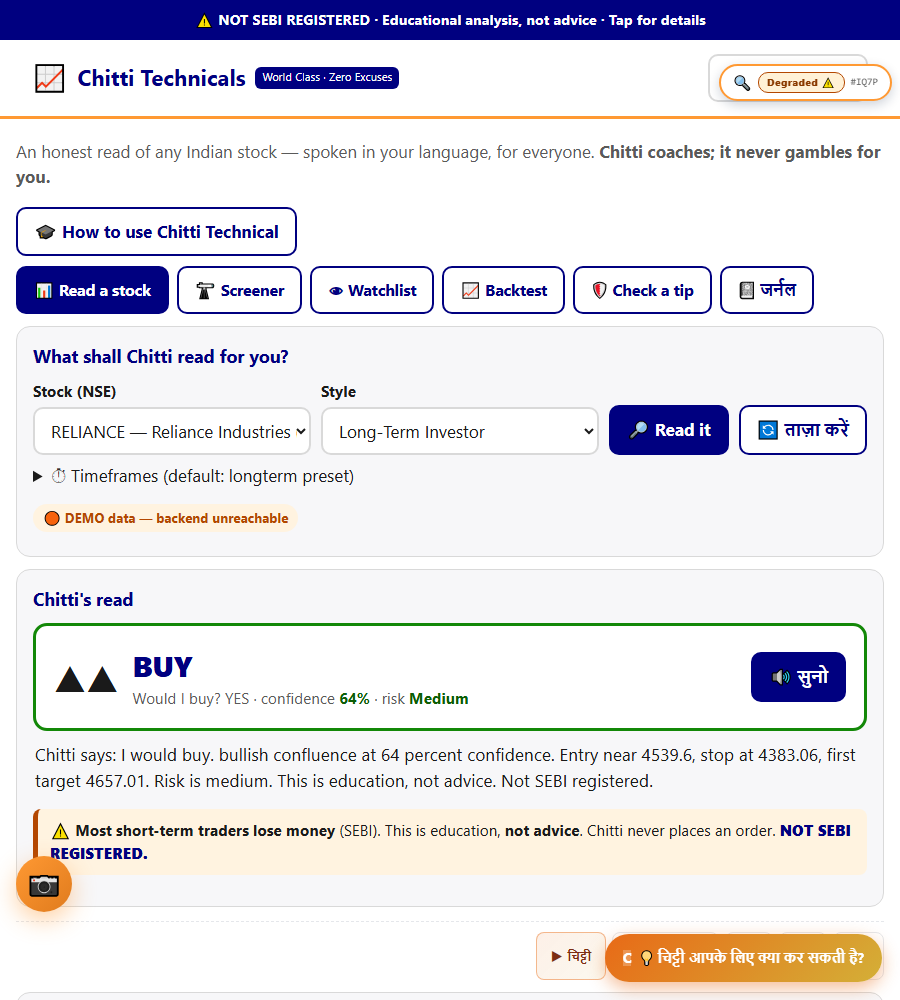
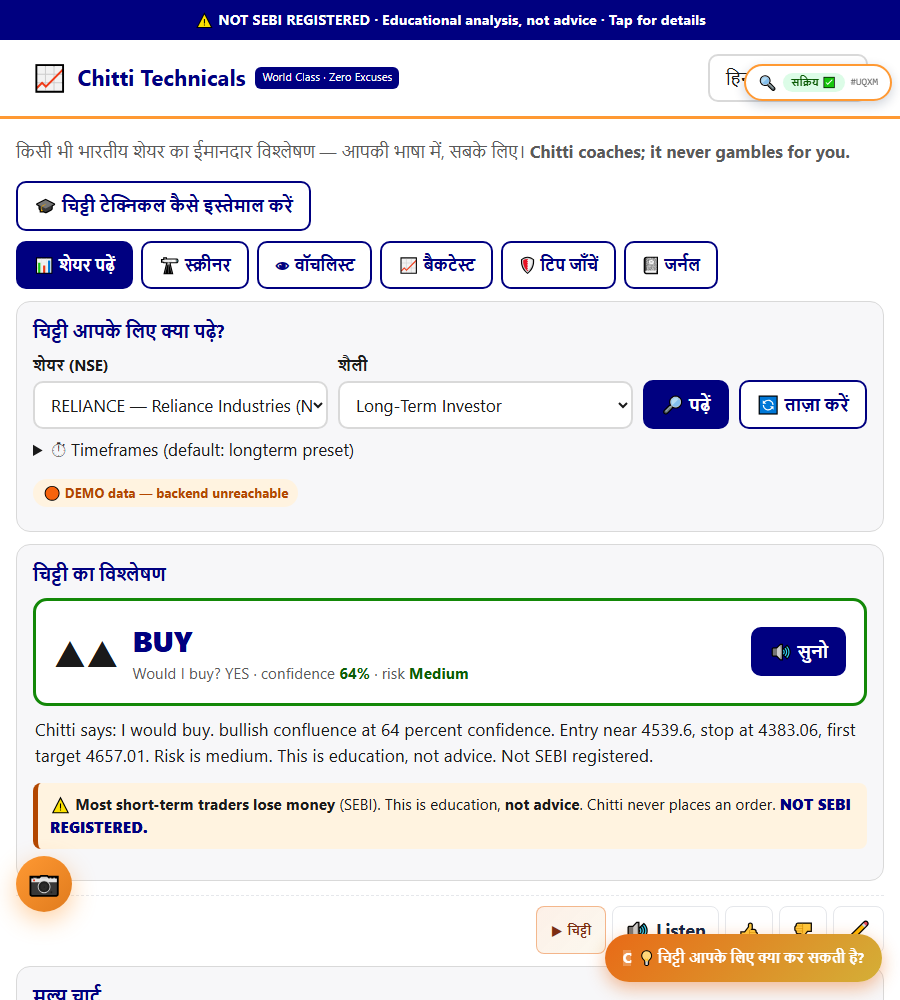
feat(technical): UI translates on language switch (chrome in-language; RSI/MACD stay English)
Per Sire: technical terms (RSI/MACD/Bollinger/NSE) stay English; the REST of the UI must change.
- chitti_technical_ai_i18n.js: translation layer for tabs, headings, buttons, labels, Style dropdown
  across 12 primary Indian langs (hi/bn/te/ta/mr/gu/kn/ml/pa/or/as/ur); honest English fallback for
  unsupported langs. Re-applies on chitti:langchange; skips [translate="no"] (technical hosts).
- HTML: data-i18n on tabs/headings/buttons/labels (emoji + technical terms kept outside the spans).
- Measured (cap_langs.mjs): hi/te/ta/bn/mr → section-labels-English=FALSE, technical-terms-English=true.
  lang_*.png show the translated UI. cert 30/30 (axe 0 serious).
- Honest remainder: the verdict NARRATION sentences (engine explain text) stay English until DeepSeek
  (BO12) — natural-language phrasing is the LLM's job, not a string table.

Changed region(s): [[0.0, 0.062, 0.9644, 0.961], [0.0311, 0.961, 0.9644, 1.0], [0.7467, 0.93, 0.7778, 0.961]]

diff --git a/chitti_technical_ai_i18n.js b/chitti_technical_ai_i18n.js
@@ -1,0 +1,75 @@
+/* chitti_technical_ai_i18n.js
+ * 🎖 World Class Chitti Technicals — Commando Discipline. Zero Excuses.
+ *
+ * Translates the page's bespoke UI chrome (tabs, section headings, buttons, labels) into the
+ * primary Indian languages on language switch. Technical terms (RSI/MACD/Bollinger/NSE) are
+ * left English on purpose (they live in [translate="no"] hosts and are not keyed here).
+ * Elements opt in with data-i18n="key". Re-applies on `chitti:langchange` (from chitti_lang.js)
+ * and on first load. Languages without a translation fall back to English — honestly, not Hinglish.
+ */
+(function (root, doc) {
+  'use strict';
+  // key → { en, hi, bn, te, ta, mr, gu, kn, ml, pa, or, as, ur }
+  var T = {
+    intro: { en: 'An honest read of any Indian stock — spoken in your language, for everyone.', hi: 'किसी भी भारतीय शेयर का ईमानदार विश्लेषण — आपकी भाषा में, सबके लिए।', bn: 'যেকোনো ভারতীয় শেয়ারের সৎ বিশ্লেষণ — আপনার ভাষায়, সবার জন্য।', te: 'ఏ భారతీయ స్టాక్నైనా నిజాయితీగా చదవడం — మీ భాషలో, అందరికీ.', ta: 'எந்த இந்தியப் பங்கையும் நேர்மையாகப் படிப்பது — உங்கள் மொழியில், அனைவருக்கும்.', mr: 'कोणत्याही भारतीय शेअरचे प्रामाणिक विश्लेषण — तुमच्या भाषेत, सर्वांसाठी.', gu: 'કોઈપણ ભારતીય શેરનું પ્રામાણિક વિશ્લેષણ — તમારી ભાષામાં, બધા માટે.', kn: 'ಯಾವುದೇ ಭಾರತೀಯ ಷೇರಿನ ಪ್ರಾಮಾಣಿಕ ವಿಶ್ಲೇಷಣೆ — ನಿಮ್ಮ ಭಾಷೆಯಲ್ಲಿ, ಎಲ್ಲರಿಗೂ.', ml: 'ഏതൊരു ഇന്ത്യൻ ഓഹരിയുടെയും സത്യസന്ധമായ വായന — നിങ്ങളുടെ ഭാഷയിൽ, എല്ലാവർക്കും.', pa: 'ਕਿਸੇ ਵੀ ਭਾਰਤੀ ਸ਼ੇਅਰ ਦਾ ਇਮਾਨਦਾਰ ਵਿਸ਼ਲੇਸ਼ਣ — ਤੁਹਾਡੀ ਭਾਸ਼ਾ ਵਿੱਚ, ਸਭ ਲਈ।', or: 'ଯେକୌଣସି ଭାରତୀୟ ସେୟାରର ସଚ୍ଚୋଟ ବିଶ୍ଳେଷଣ — ଆପଣଙ୍କ ଭାଷାରେ, ସମସ୍ତଙ୍କ ପାଇଁ।', as: 'যিকোনো ভাৰতীয় শ্বেয়াৰৰ সৎ বিশ্লেষণ — আপোনাৰ ভাষাত, সকলোৰে বাবে।', ur: 'کسی بھی بھارتی اسٹاک کا ایماندار تجزیہ — آپ کی زبان میں، سب کے لیے۔' },
+    tab_read: { en: 'Read a stock', hi: 'शेयर पढ़ें', bn: 'শেয়ার পড়ুন', te: 'స్టాక్ చదవండి', ta: 'பங்கைப் படி', mr: 'शेअर वाचा', gu: 'શેર વાંચો', kn: 'ಷೇರು ಓದಿ', ml: 'ഓഹരി വായിക്കുക', pa: 'ਸ਼ੇਅਰ ਪੜ੍ਹੋ', or: 'ସେୟାର ପଢ଼ନ୍ତୁ', as: 'শ্বেয়াৰ পঢ়ক', ur: 'اسٹاک پڑھیں' },
+    tab_screener: { en: 'Screener', hi: 'स्क्रीनर', bn: 'স্ক্রিনার', te: 'స్క్రీనర్', ta: 'ஸ்கிரீனர்', mr: 'स्क्रीनर', gu: 'સ્ક્રીનર', kn: 'ಸ್ಕ್ರೀನರ್', ml: 'സ്ക്രീനർ', pa: 'ਸਕਰੀਨਰ', or: 'ସ୍କ୍ରିନର', as: 'স্ক্ৰিনাৰ', ur: 'اسکرینر' },
+    tab_watchlist: { en: 'Watchlist', hi: 'वॉचलिस्ट', bn: 'ওয়াচলিস্ট', te: 'వాచ్లిస్ట్', ta: 'கண்காணிப்புப் பட்டியல்', mr: 'वॉचलिस्ट', gu: 'વોચલિસ્ટ', kn: 'ವಾಚ್ಲಿಸ್ಟ್', ml: 'വാച്ച്ലിസ്റ്റ്', pa: 'ਵਾਚਲਿਸਟ', or: 'ୱାଚଲିଷ୍ଟ', as: 'ৱাচলিষ্ট', ur: 'واچ لسٹ' },
+    tab_backtest: { en: 'Backtest', hi: 'बैकटेस्ट', bn: 'ব্যাকটেস্ট', te: 'బ్యాక్టెస్ట్', ta: 'பின்சோதனை', mr: 'बॅकटेस्ट', gu: 'બેકટેસ્ટ', kn: 'ಬ್ಯಾಕ್ಟೆಸ್ಟ್', ml: 'ബാക്ക്ടെസ്റ്റ്', pa: 'ਬੈਕਟੈਸਟ', or: 'ବ୍ୟାକ୍ଟେଷ୍ଟ', as: 'বেকটেষ্ট', ur: 'بیک ٹیسٹ' },
+    tab_tip: { en: 'Check a tip', hi: 'टिप जाँचें', bn: 'টিপ যাচাই করুন', te: 'టిప్ తనిఖీ చేయండి', ta: 'டிப்பைச் சரிபார்', mr: 'टिप तपासा', gu: 'ટિપ તપાસો', kn: 'ಟಿಪ್ ಪರಿಶೀಲಿಸಿ', ml: 'ടിപ്പ് പരിശോധിക്കുക', pa: 'ਟਿੱਪ ਜਾਂਚੋ', or: 'ଟିପ୍ ଯାଞ୍ଚ କରନ୍ତୁ', as: 'টিপ পৰীক্ষা কৰক', ur: 'ٹپ جانچیں' },
+    tab_journal: { en: 'Journal', hi: 'जर्नल', bn: 'জার্নাল', te: 'జర్నల్', ta: 'பதிவேடு', mr: 'जर्नल', gu: 'જર્નલ', kn: 'ಜರ್ನಲ್', ml: 'ജേണൽ', pa: 'ਜਰਨਲ', or: 'ଜର୍ନାଲ', as: 'জাৰ্নেল', ur: 'جرنل' },
+    h_ask: { en: 'What shall Chitti read for you?', hi: 'चिट्टी आपके लिए क्या पढ़े?', bn: 'চিট্টি আপনার জন্য কী পড়বে?', te: 'చిట్టి మీ కోసం ఏమి చదవాలి?', ta: 'சிட்டி உங்களுக்கு எதைப் படிக்கட்டும்?', mr: 'चिट्टीने तुमच्यासाठी काय वाचावे?', gu: 'ચિટ્ટી તમારા માટે શું વાંચે?', kn: 'ಚಿಟ್ಟಿ ನಿಮಗಾಗಿ ಏನು ಓದಬೇಕು?', ml: 'ചിട്ടി നിങ്ങൾക്കായി എന്ത് വായിക്കണം?', pa: 'ਚਿੱਟੀ ਤੁਹਾਡੇ ਲਈ ਕੀ ਪੜ੍ਹੇ?', or: 'ଚିଟ୍ଟି ଆପଣଙ୍କ ପାଇଁ କଣ ପଢ଼ିବ?', as: 'চিট্টিয়ে আপোনাৰ বাবে কি পঢ়িব?', ur: 'چٹی آپ کے لیے کیا پڑھے؟' },
+    lbl_stock: { en: 'Stock (NSE)', hi: 'शेयर (NSE)', bn: 'শেয়ার (NSE)', te: 'స్టాక్ (NSE)', ta: 'பங்கு (NSE)', mr: 'शेअर (NSE)', gu: 'શેર (NSE)', kn: 'ಷೇರು (NSE)', ml: 'ഓഹരി (NSE)', pa: 'ਸ਼ੇਅਰ (NSE)', or: 'ସେୟାର (NSE)', as: 'শ্বেয়াৰ (NSE)', ur: 'اسٹاک (NSE)' },
+    lbl_style: { en: 'Style', hi: 'शैली', bn: 'ধরন', te: 'శైలి', ta: 'பாணி', mr: 'शैली', gu: 'શૈલી', kn: 'ಶೈಲಿ', ml: 'ശൈലി', pa: 'ਸ਼ੈਲੀ', or: 'ଶୈଳୀ', as: 'শৈলী', ur: 'انداز' },
+    btn_readit: { en: 'Read it', hi: 'पढ़ें', bn: 'পড়ুন', te: 'చదవండి', ta: 'படி', mr: 'वाचा', gu: 'વાંચો', kn: 'ಓದಿ', ml: 'വായിക്കുക', pa: 'ਪੜ੍ਹੋ', or: 'ପଢ଼ନ୍ତୁ', as: 'পঢ়ক', ur: 'پڑھیں' },
+    btn_refresh: { en: 'Refresh', hi: 'ताज़ा करें', bn: 'রিফ্রেশ', te: 'రిఫ్రెష్', ta: 'புதுப்பி', mr: 'रिफ्रेश', gu: 'રિફ્રેશ', kn: 'ರಿಫ್ರೆಶ್', ml: 'പുതുക്കുക', pa: 'ਤਾਜ਼ਾ ਕਰੋ', or: 'ରିଫ୍ରେସ୍', as: 'ৰিফ্ৰেছ', ur: 'ریفریش' },
+    lbl_tf: { en: 'Timeframe', hi: 'समय-सीमा', bn: 'সময়সীমা', te: 'కాలవ్యవధి', ta: 'கால அளவு', mr: 'कालावधी', gu: 'સમયમર્યાદા', kn: 'ಕಾಲಾವಧಿ', ml: 'കാലയളവ്', pa: 'ਸਮਾਂ-ਸੀਮਾ', or: 'ସମୟସୀମା', as: 'সময়সীমা', ur: 'مدت' },
+    h_chitti_read: { en: "Chitti's read", hi: 'चिट्टी का विश्लेषण', bn: 'চিট্টির বিশ্লেষণ', te: 'చిట్టి విశ్లేషణ', ta: 'சிட்டியின் வாசிப்பு', mr: 'चिट्टीचे विश्लेषण', gu: 'ચિટ્ટીનું વિશ્લેષણ', kn: 'ಚಿಟ್ಟಿಯ ವಿಶ್ಲೇಷಣೆ', ml: 'ചിട്ടിയുടെ വായന', pa: 'ਚਿੱਟੀ ਦਾ ਵਿਸ਼ਲੇਸ਼ਣ', or: 'ଚିଟ୍ଟିଙ୍କ ବିଶ୍ଳେଷଣ', as: 'চিট্টিৰ বিশ্লেষণ', ur: 'چٹی کا تجزیہ' },
+    h_chart: { en: 'Price chart', hi: 'मूल्य चार्ट', bn: 'মূল্য চার্ট', te: 'ధర చార్ట్', ta: 'விலை விளக்கப்படம்', mr: 'किंमत चार्ट', gu: 'કિંમત ચાર્ટ', kn: 'ಬೆಲೆ ಚಾರ್ಟ್', ml: 'വില ചാർട്ട്', pa: 'ਕੀਮਤ ਚਾਰਟ', or: 'ମୂଲ୍ୟ ଚାର୍ଟ', as: 'মূল্য চাৰ্ট', ur: 'قیمت چارٹ' },
+    h_rating: { en: 'Technical rating', hi: 'तकनीकी रेटिंग', bn: 'টেকনিক্যাল রেটিং', te: 'టెక్నికల్ రేటింగ్', ta: 'தொழில்நுட்ப மதிப்பீடு', mr: 'तांत्रिक रेटिंग', gu: 'ટેકનિકલ રેટિંગ', kn: 'ತಾಂತ್ರಿಕ ರೇಟಿಂಗ್', ml: 'സാങ്കേതിക റേറ്റിംഗ്', pa: 'ਤਕਨੀਕੀ ਰੇਟਿੰਗ', or: 'ଯାନ୍ତ୍ରିକ ରେଟିଂ', as: 'কাৰিকৰী ৰেটিং', ur: 'تکنیکی درجہ بندی' },
+    h_ind_say: { en: 'What the indicators say', hi: 'संकेतक क्या कहते हैं', bn: 'সূচকগুলি কী বলে', te: 'సూచికలు ఏమి చెబుతున్నాయి', ta: 'குறிகாட்டிகள் என்ன சொல்கின்றன', mr: 'निर्देशक काय सांगतात', gu: 'સૂચકો શું કહે છે', kn: 'ಸೂಚಕಗಳು ಏನು ಹೇಳುತ್ತವೆ', ml: 'സൂചകങ്ങൾ എന്ത് പറയുന്നു', pa: 'ਸੂਚਕ ਕੀ ਕਹਿੰਦੇ ਹਨ', or: 'ସୂଚକଗୁଡ଼ିକ କଣ କୁହନ୍ତି', as: 'সূচকসমূহে কি কয়', ur: 'انڈیکیٹرز کیا کہتے ہیں' },
+    h_mood: { en: 'Mood', hi: 'मूड', bn: 'মেজাজ', te: 'మూడ్', ta: 'மனநிலை', mr: 'मूड', gu: 'મૂડ', kn: 'ಮನಸ್ಥಿತಿ', ml: 'മൂഡ്', pa: 'ਮੂਡ', or: 'ମନୋଭାବ', as: 'মেজাজ', ur: 'موڈ' },
+    h_why: { en: 'Why — for & against', hi: 'क्यों — पक्ष और विपक्ष', bn: 'কেন — পক্ষে ও বিপক্ষে', te: 'ఎందుకు — అనుకూలం & వ్యతిరేకం', ta: 'ஏன் — சார்பாகவும் எதிராகவும்', mr: 'का — बाजूने आणि विरुद्ध', gu: 'શા માટે — તરફેણ અને વિરુદ્ધ', kn: 'ಏಕೆ — ಪರ ಮತ್ತು ವಿರುದ್ಧ', ml: 'എന്തുകൊണ്ട് — അനുകൂലവും പ്രതികൂലവും', pa: 'ਕਿਉਂ — ਪੱਖ ਅਤੇ ਵਿਰੋਧ', or: 'କାହିଁକି — ପକ୍ଷ ଓ ବିପକ୍ଷ', as: 'কিয় — পক্ষে আৰু বিপক্ষে', ur: 'کیوں — حق اور مخالفت میں' },
+    h_plan: { en: 'If you were to act — risk first', hi: 'अगर आप कदम उठाएँ — पहले जोखिम', bn: 'যদি পদক্ষেপ নেন — আগে ঝুঁকি', te: 'మీరు చర్య తీసుకుంటే — ముందు రిస్క్', ta: 'நீங்கள் செயல்பட்டால் — முதலில் ஆபத்து', mr: 'जर तुम्ही कृती कराल — आधी जोखीम', gu: 'જો તમે પગલું ભરો — પહેલા જોખમ', kn: 'ನೀವು ಕ್ರಮ ತೆಗೆದುಕೊಂಡರೆ — ಮೊದಲು ಅಪಾಯ', ml: 'നിങ്ങൾ പ്രവർത്തിച്ചാൽ — ആദ്യം റിസ്ക്', pa: 'ਜੇ ਤੁਸੀਂ ਕਦਮ ਚੁੱਕੋ — ਪਹਿਲਾਂ ਜੋਖਮ', or: 'ଯଦି ଆପଣ ପଦକ୍ଷେପ ନିଅନ୍ତି — ପ୍ରଥମେ ବିପଦ', as: 'যদি আপুনি পদক্ষেপ লয় — প্ৰথমে বিপদ', ur: 'اگر آپ قدم اٹھائیں — پہلے خطرہ' },
+    h_indicators: { en: 'Indicators', hi: 'संकेतक', bn: 'সূচক', te: 'సూచికలు', ta: 'குறிகாட்டிகள்', mr: 'निर्देशक', gu: 'સૂચકો', kn: 'ಸೂಚಕಗಳು', ml: 'സൂചകങ്ങൾ', pa: 'ਸੂਚਕ', or: 'ସୂଚକ', as: 'সূচক', ur: 'انڈیکیٹرز' },
+    h_sr: { en: 'Support & resistance', hi: 'सपोर्ट और रेज़िस्टेंस', bn: 'সাপোর্ট ও রেজিস্ট্যান্স', te: 'సపోర్ట్ & రెసిస్టెన్స్', ta: 'ஆதரவு & எதிர்ப்பு', mr: 'सपोर्ट आणि रेझिस्टन्स', gu: 'સપોર્ટ અને રેઝિસ્ટન્સ', kn: 'ಸಪೋರ್ಟ್ ಮತ್ತು ರೆಸಿಸ್ಟೆನ್ಸ್', ml: 'സപ്പോർട്ട് & റെസിസ്റ്റൻസ്', pa: 'ਸਪੋਰਟ ਅਤੇ ਰੇਜ਼ਿਸਟੈਂਸ', or: 'ସପୋର୍ଟ ଓ ରେଜିଷ୍ଟାନ୍ସ', as: 'ছাপৰ্ট আৰু ৰেজিষ্টেন্স', ur: 'سپورٹ اور ریزسٹنس' },
+    h_pattern: { en: 'Chart pattern', hi: 'चार्ट पैटर्न', bn: 'চার্ট প্যাটার্ন', te: 'చార్ట్ ప్యాటర్న్', ta: 'விளக்கப்பட வடிவம்', mr: 'चार्ट पॅटर्न', gu: 'ચાર્ટ પેટર્ન', kn: 'ಚಾರ್ಟ್ ಪ್ಯಾಟರ್ನ್', ml: 'ചാർട്ട് പാറ്റേൺ', pa: 'ਚਾਰਟ ਪੈਟਰਨ', or: 'ଚାର୍ଟ ପ୍ୟାଟର୍ନ', as: 'চাৰ্ট পেটাৰ্ন', ur: 'چارٹ پیٹرن' },
+    h_journal: { en: 'Your paper journal', hi: 'आपका पेपर जर्नल', bn: 'আপনার পেপার জার্নাল', te: 'మీ పేపర్ జర్నల్', ta: 'உங்கள் பேப்பர் பதிவேடு', mr: 'तुमचे पेपर जर्नल', gu: 'તમારું પેપર જર્નલ', kn: 'ನಿಮ್ಮ ಪೇಪರ್ ಜರ್ನಲ್', ml: 'നിങ്ങളുടെ പേപ്പർ ജേണൽ', pa: 'ਤੁਹਾਡਾ ਪੇਪਰ ਜਰਨਲ', or: 'ଆପଣଙ୍କ ପେପର ଜର୍ନାଲ', as: 'আপোনাৰ পেপাৰ জাৰ্নেল', ur: 'آپ کا پیپر جرنل' },
+    h_insights: { en: 'Honest insights', hi: 'ईमानदार जानकारी', bn: 'সৎ অন্তর্দৃষ্টি', te: 'నిజాయితీ అంతర్దృష్టులు', ta: 'நேர்மையான பார்வைகள்', mr: 'प्रामाणिक माहिती', gu: 'પ્રામાણિક આંતરદૃષ્ટિ', kn: 'ಪ್ರಾಮಾಣಿಕ ಒಳನೋಟ', ml: 'സത്യസന്ധമായ ഉൾക്കാഴ്ച', pa: 'ਇਮਾਨਦਾਰ ਜਾਣਕਾਰੀ', or: 'ସଚ୍ଚୋଟ ଦୃଷ୍ଟି', as: 'সৎ অন্তৰ্দৃষ্টি', ur: 'ایماندار بصیرت' },
+    btn_howto: { en: 'How to use Chitti Technical', hi: 'चिट्टी टेक्निकल कैसे इस्तेमाल करें', bn: 'চিট্টি টেকনিক্যাল কীভাবে ব্যবহার করবেন', te: 'చిట్టి టెక్నికల్ ఎలా ఉపయోగించాలి', ta: 'சிட்டி டெக்னிக்கலை எப்படி பயன்படுத்துவது', mr: 'चिट्टी टेक्निकल कसे वापरावे', gu: 'ચિટ્ટી ટેકનિકલ કેવી રીતે વાપરવું', kn: 'ಚಿಟ್ಟಿ ಟೆಕ್ನಿಕಲ್ ಬಳಸುವುದು ಹೇಗೆ', ml: 'ചിട്ടി ടെക്നിക്കൽ എങ്ങനെ ഉപയോഗിക്കാം', pa: 'ਚਿੱਟੀ ਟੈਕਨੀਕਲ ਕਿਵੇਂ ਵਰਤੀਏ', or: 'ଚିଟ୍ଟି ଟେକ୍ନିକାଲ କିପରି ବ୍ୟବହାର କରିବେ', as: 'চিট্টি টেকনিকেল কেনেকৈ ব্যৱহাৰ কৰিব', ur: 'چٹی ٹیکنیکل کیسے استعمال کریں' }
+  };
+
+  // Style (trade-mode) dropdown labels — keyed by the engine's English label.
+  var MODES = {
+    'Long-Term Investor': { hi: 'दीर्घकालिक निवेशक', bn: 'দীর্ঘমেয়াদী বিনিয়োগকারী', te: 'దీర్ఘకాలిక పెట్టుబడిదారు', ta: 'நீண்டகால முதலீட்டாளர்', mr: 'दीर्घकालीन गुंतवणूकदार', gu: 'લાંબા ગાળાનો રોકાણકાર', kn: 'ದೀರ್ಘಕಾಲೀನ ಹೂಡಿಕೆದಾರ', ml: 'ദീർഘകാല നിക്ഷേപകൻ', pa: 'ਲੰਮੇ ਸਮੇਂ ਦਾ ਨਿਵੇਸ਼ਕ', or: 'ଦୀର୍ଘକାଳୀନ ବିନିଯୋଗକାରୀ', as: 'দীৰ্ঘম্যাদী বিনিয়োগকাৰী', ur: 'طویل مدتی سرمایہ کار' },
+    'Aggressive Swing': { hi: 'आक्रामक स्विंग', bn: 'আক্রমণাত্মক সুইং', te: 'దూకుడు స్వింగ్', ta: 'ஆக்ரோஷ ஸ்விங்', mr: 'आक्रमक स्विंग', gu: 'આક્રમક સ્વિંગ', kn: 'ಆಕ್ರಮಣಕಾರಿ ಸ್ವಿಂಗ್', ml: 'ആക്രമണാത്മക സ്വിംഗ്', pa: 'ਹਮਲਾਵਰ ਸਵਿੰਗ', or: 'ଆକ୍ରମଣାତ୍ମକ ସ୍ୱିଂ', as: 'আক্ৰমণাত্মক স্ৱিং', ur: 'جارحانہ سوئنگ' },
+    'Day Trader': { hi: 'डे ट्रेडर', bn: 'ডে ট্রেডার', te: 'డే ట్రేడర్', ta: 'டே டிரேடர்', mr: 'डे ट्रेडर', gu: 'ડે ટ્રેડર', kn: 'ಡೇ ಟ್ರೇಡರ್', ml: 'ഡേ ട്രേഡർ', pa: 'ਡੇ ਟ੍ਰੇਡਰ', or: 'ଡେ ଟ୍ରେଡର', as: 'ডে ট্ৰেডাৰ', ur: 'ڈے ٹریڈر' },
+    'Scalper': { hi: 'स्कैल्पर', bn: 'স্কাল্পার', te: 'స్కాల్పర్', ta: 'ஸ்கால்பர்', mr: 'स्कॅल्पर', gu: 'સ્કેલ્પર', kn: 'ಸ್ಕಾಲ್ಪರ್', ml: 'സ്കാൽപർ', pa: 'ਸਕੈਲਪਰ', or: 'ସ୍କାଲ୍ପର', as: 'স্কেল্পাৰ', ur: 'اسکیلپر' }
+  };
+
+  function lang() { try { return (root.Chitti && root.Chitti.lang && root.Chitti.lang.current && root.Chitti.lang.current()) || doc.documentElement.lang || 'en'; } catch (e) { return doc.documentElement.lang || 'en'; } }
+
+  function apply() {
+    var lg = lang();
+    Array.prototype.forEach.call(doc.querySelectorAll('[data-i18n]'), function (el) {
+      if (el.closest && el.closest('[translate="no"]')) return; // never touch technical-term hosts
+      var k = el.getAttribute('data-i18n'); var row = T[k]; if (!row) return;
+      el.textContent = row[lg] || row.en; // honest English fallback for unsupported languages
+    });
+    // Style dropdown options — store the English in data-en, translate the visible label
+    ['tech-mode', 'scr-mode'].forEach(function (id) {
+      var sel = doc.getElementById(id); if (!sel) return;
+      Array.prototype.forEach.call(sel.options, function (o) {
+        var en = o.getAttribute('data-en') || o.textContent; o.setAttribute('data-en', en);
+        var m = MODES[en]; o.textContent = (m && m[lg]) || en;
+      });
+    });
+  }
+
+  function init() { apply(); try { doc.addEventListener('chitti:langchange', apply); } catch (e) {}
+    // also re-apply shortly after load in case the lang substrate sets the language late
+    setTimeout(apply, 600); setTimeout(apply, 1500); }
+
+  root.ChittiTechI18n = { apply: apply, T: T };
+  if (doc.readyState === 'loading') doc.addEventListener('DOMContentLoaded', init); else init();
+})(typeof window !== 'undefined' ? window : this, typeof document !== 'undefined' ? document : null);

diff --git a/chitti_technical_ai.html b/chitti_technical_ai.html
@@ -146,48 +146,48 @@
 <div id="tech-live" aria-live="polite" aria-atomic="true" class="sr-only"></div>
 
 <main id="main" class="wrap">
-  <p style="color:var(--muted);margin-top:4px">An honest read of any Indian stock — spoken in your language, for everyone. <b>Chitti coaches; it never gambles for you.</b></p>
-  <div style="margin:8px 0"><button type="button" id="ob-open" class="ghost">🎓 How to use Chitti Technical</button></div>
+  <p style="color:var(--muted);margin-top:4px"><span data-i18n="intro">An honest read of any Indian stock — spoken in your language, for everyone.</span> <b>Chitti coaches; it never gambles for you.</b></p>
+  <div style="margin:8px 0"><button type="button" id="ob-open" class="ghost">🎓 <span data-i18n="btn_howto">How to use Chitti Technical</span></button></div>
   <div id="onboarding-host"></div>
 
   <div class="tablist" role="tablist" aria-label="Sections">
-    <button role="tab" id="tab-read" aria-selected="true" aria-controls="panel-read">📊 Read a stock</button>
-    <button role="tab" id="tab-screener" aria-selected="false" aria-controls="panel-screener">🔭 Screener</button>
-    <button role="tab" id="tab-watchlist" aria-selected="false" aria-controls="panel-watchlist">👁 Watchlist</button>
-    <button role="tab" id="tab-backtest" aria-selected="false" aria-controls="panel-backtest">📈 Backtest</button>
-    <button role="tab" id="tab-tip" aria-selected="false" aria-controls="panel-tip">🛡 Check a tip</button>
-    <button role="tab" id="tab-journal" aria-selected="false" aria-controls="panel-journal">📓 Journal</button>
+    <button role="tab" id="tab-read" aria-selected="true" aria-controls="panel-read">📊 <span data-i18n="tab_read">Read a stock</span></button>
+    <button role="tab" id="tab-screener" aria-selected="false" aria-controls="panel-screener">🔭 <span data-i18n="tab_screener">Screener</span></button>
+    <button role="tab" id="tab-watchlist" aria-selected="false" aria-controls="panel-watchlist">👁 <span data-i18n="tab_watchlist">Watchlist</span></button>
+    <button role="tab" id="tab-backtest" aria-selected="false" aria-controls="panel-backtest">📈 <span data-i18n="tab_backtest">Backtest</span></button>
+    <button role="tab" id="tab-tip" aria-selected="false" aria-controls="panel-tip">🛡 <span data-i18n="tab_tip">Check a tip</span></button>
+    <button role="tab" id="tab-journal" aria-selected="false" aria-controls="panel-journal">📓 <span data-i18n="tab_journal">Journal</span></button>
   </div>
 
   <!-- READ -->
   <section id="panel-read" class="panel active" role="tabpanel" aria-labelledby="tab-read">
     <div class="card">
-      <h3>What shall Chitti read for you?</h3>
+      <h3 data-i18n="h_ask">What shall Chitti read for you?</h3>
       <div class="controls">
-        <div class="fld"><label for="tech-symbol">Stock (NSE)</label><select id="tech-symbol"></select></div>
-        <div class="fld"><label for="tech-mode">Style</label><select id="tech-mode"></select></div>
-        <div><button id="tech-analyze" type="button">🔎 Read it</button></div>
-        <div><button id="tech-refresh" class="ghost" type="button">🔄 Refresh</button></div>
+        <div class="fld"><label for="tech-symbol" data-i18n="lbl_stock">Stock (NSE)</label><select id="tech-symbol"></select></div>
+        <div class="fld"><label for="tech-mode" data-i18n="lbl_style">Style</label><select id="tech-mode"></select></div>
+        <div><button id="tech-analyze" type="button">🔎 <span data-i18n="btn_readit">Read it</span></button></div>
+        <div><button id="tech-refresh" class="ghost" type="button">🔄 <span data-i18n="btn_refresh">Refresh</span></button></div>
       </div>
       <div id="tf-picker-host"></div>
       <div id="source-badge"></div>
     </div>
     <div id="result-area" style="display:none">
-      <div class="card" data-chitti-response data-chitti-section="Verdict"><h3>Chitti's read</h3><div id="verdict-host"></div></div>
-      <div class="card" data-chitti-response data-chitti-section="Price chart"><h3>Price chart</h3>
-        <div class="chart-tf-bar"><label for="chart-tf">Timeframe</label><select id="chart-tf" aria-label="Chart timeframe"></select>
+      <div class="card" data-chitti-response data-chitti-section="Verdict"><h3 data-i18n="h_chitti_read">Chitti's read</h3><div id="verdict-host"></div></div>
+      <div class="card" data-chitti-response data-chitti-section="Price chart"><h3 data-i18n="h_chart">Price chart</h3>
+        <div class="chart-tf-bar"><label for="chart-tf" data-i18n="lbl_tf">Timeframe</label><select id="chart-tf" aria-label="Chart timeframe"></select>
           <details class="chart-ind-pick"><summary>📊 Indicators</summary><div id="chart-ind-host"></div></details>
           <span id="chart-tf-src" translate="no" class="chart-tf-src"></span></div>
         <canvas id="tech-canvas" height="240" aria-label="Price chart"></canvas><div id="chart-tools-host" style="margin-top:8px"></div></div>
-      <div class="card" data-chitti-response data-chitti-section="Technical rating gauge"><h3>Technical rating</h3><div id="gauge-host" translate="no"></div></div>
-      <div class="card" data-chitti-response data-chitti-section="Indicator vote tally"><h3>What the indicators say</h3><div id="votes-host" translate="no"></div></div>
-      <div class="card" data-chitti-response data-chitti-section="Market mood"><h3>Mood</h3><div id="mood-host"></div></div>
-      <div class="card" data-chitti-response data-chitti-section="Reasons for and against"><h3>Why — for &amp; against</h3><div id="reasons-host"></div></div>
-      <div class="card" data-chitti-response data-chitti-section="Trade plan"><h3>If you were to act — risk first</h3><div id="plan-host" translate="no"></div></div>
+      <div class="card" data-chitti-response data-chitti-section="Technical rating gauge"><h3 data-i18n="h_rating">Technical rating</h3><div id="gauge-host" translate="no"></div></div>
+      <div class="card" data-chitti-response data-chitti-section="Indicator vote tally"><h3 data-i18n="h_ind_say">What the indicators say</h3><div id="votes-host" translate="no"></div></div>
+      <div class="card" data-chitti-response data-chitti-section="Market mood"><h3 data-i18n="h_mood">Mood</h3><div id="mood-host"></div></div>
+      <div class="card" data-chitti-response data-chitti-section="Reasons for and against"><h3 data-i18n="h_why">Why — for &amp; against</h3><div id="reasons-host"></div></div>
+      <div class="card" data-chitti-response data-chitti-section="Trade plan"><h3 data-i18n="h_plan">If you were to act — risk first</h3><div id="plan-host" translate="no"></div></div>
       <div id="cooldown-host"></div>
-      <div class="card" data-chitti-response data-chitti-section="Indicators detail"><h3>Indicators</h3><div id="indicator-picker-host" translate="no"></div><div id="indicators-host" translate="no"></div></div>
-      <div class="card" data-chitti-response data-chitti-section="Support and resistance"><h3>Support &amp; resistance</h3><div id="sr-host" translate="no"></div></div>
-      <div class="card" data-chitti-response data-chitti-section="Chart pattern"><h3>Chart pattern</h3><div id="patterns-host"></div></div>
+      <div class="card" data-chitti-response data-chitti-section="Indicators detail"><h3 data-i18n="h_indicators">Indicators</h3><div id="indicator-picker-host" translate="no"></div><div id="indicators-host" translate="no"></div></div>
+      <div class="card" data-chitti-response data-chitti-section="Support and resistance"><h3 data-i18n="h_sr">Support &amp; resistance</h3><div id="sr-host" translate="no"></div></div>
+      <div class="card" data-chitti-response data-chitti-section="Chart pattern"><h3 data-i18n="h_pattern">Chart pattern</h3><div id="patterns-host"></div></div>
     </div>
   </section>
 
@@ -246,9 +246,9 @@
   <!-- JOURNAL -->
   <section id="panel-journal" class="panel" role="tabpanel" aria-labelledby="tab-journal" hidden>
     <div class="card" data-chitti-response data-chitti-section="Paper journal">
-      <h3>📓 Your paper journal <span style="font-weight:400;color:var(--muted)">— practice only, no real money</span></h3>
+      <h3>📓 <span data-i18n="h_journal">Your paper journal</span> <span style="font-weight:400;color:var(--muted)">— practice only, no real money</span></h3>
       <div id="journal-host"></div>
-      <h3 style="margin-top:14px">💡 Honest insights</h3>
+      <h3 style="margin-top:14px">💡 <span data-i18n="h_insights">Honest insights</span></h3>
       <div id="insights-host"></div>
       <div style="margin-top:12px"><button id="journal-forget" class="ghost" type="button">🧽 Chitti forget my journal</button></div>
     </div>
@@ -269,6 +269,7 @@
 <script src="chitti_technical_ai_data.js" defer></script>
 <script src="chitti_technical_ai_app.js" defer></script>
 <script src="chitti_technical_ai_onboarding.js" defer></script>
+<script src="chitti_technical_ai_i18n.js" defer></script>
 <script src="chitti_a11y.js" defer></script>
 <script src="feedback-widget.js" data-page="chitti_technical_ai" defer></script>
 <script>
